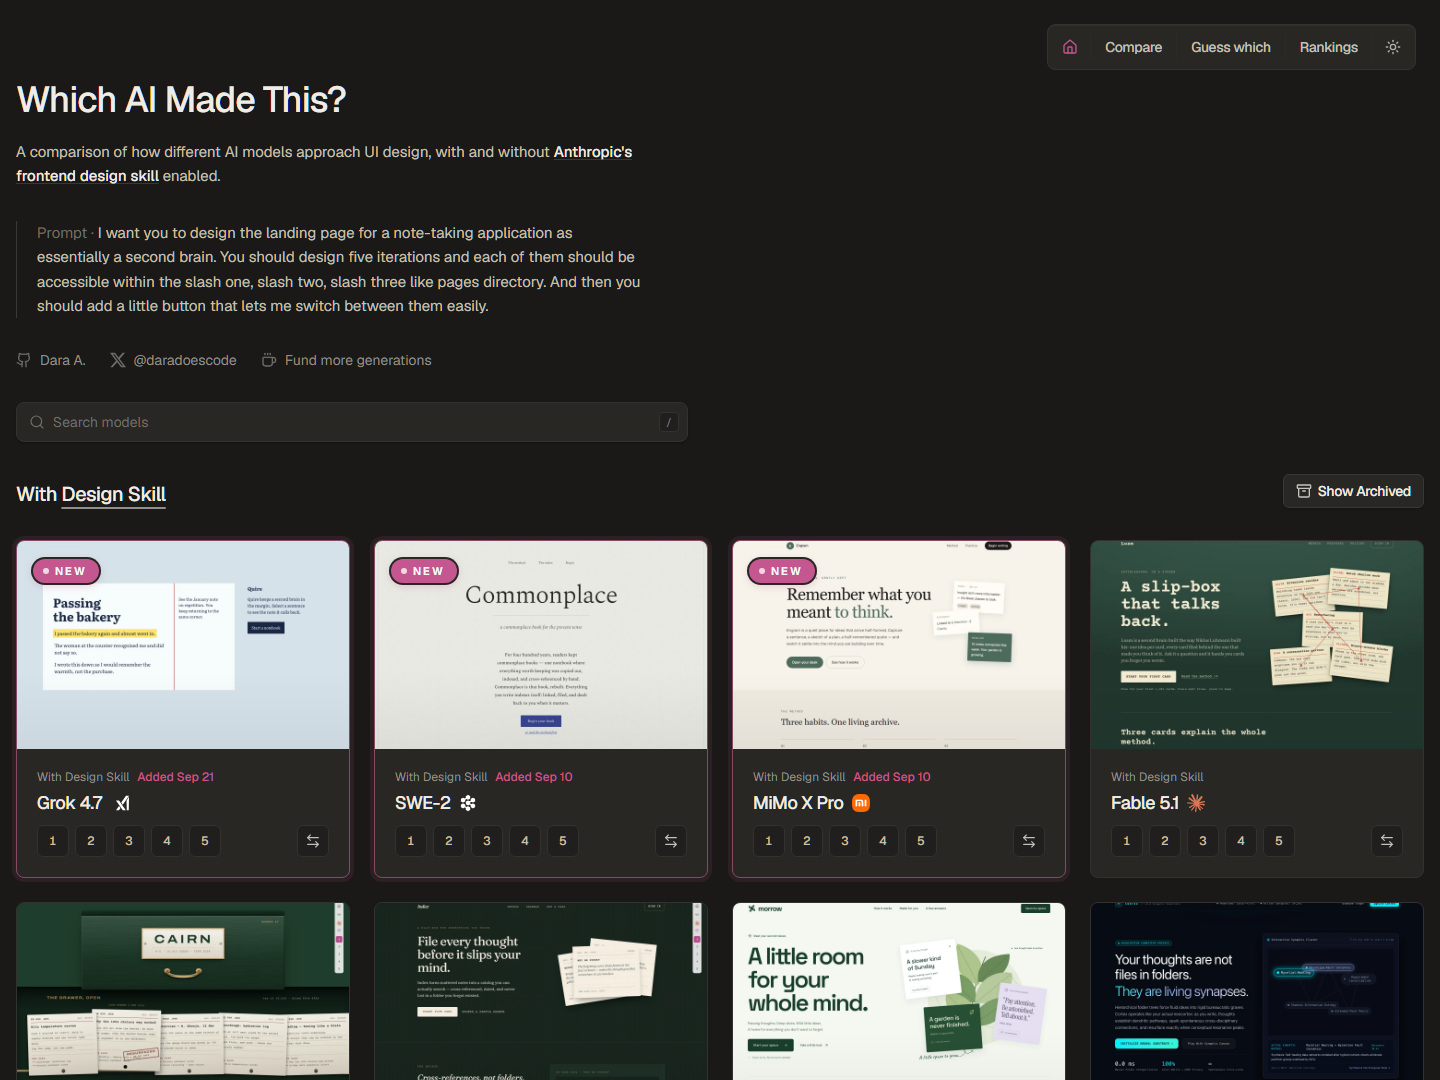
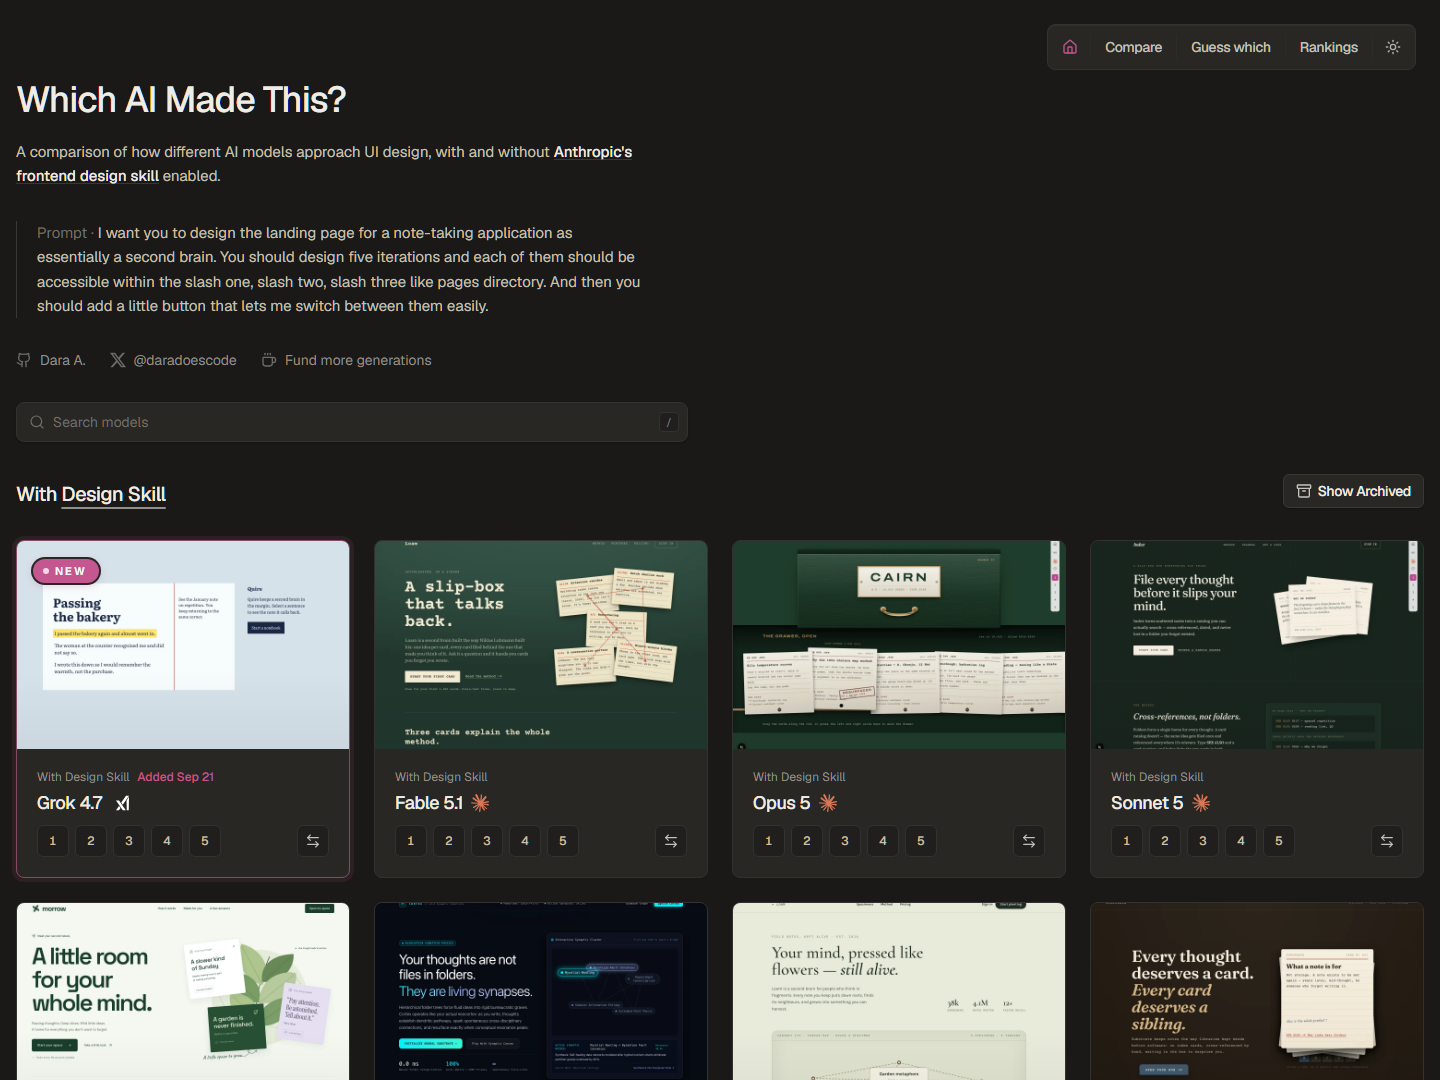
Mark only Grok 4.7 as a new arrival

diff --git a/tests/gallery-recency.spec.ts b/tests/gallery-recency.spec.ts
@@ -59,7 +59,7 @@ test.describe("new-arrival policy", () => {
         if (!isGalleryModelArchivedWithinGroup(entries, entry)) continue;
         const addedAt = getGalleryEntryAddedAt(entry);
         if (!addedAt) continue;
-        // Evaluate on the entry's own added day so only the archive rule can suppress it.
+        // An archived entry must stay unbadged even on its own added day.
         expect(
           getGalleryEntryNewArrival(entries, entry, isoDateToUtcMs(addedAt)),
           `${group}/${entry.model}`,
@@ -68,13 +68,15 @@ test.describe("new-arrival policy", () => {
     }
   });
 
-  test("older models are not new on the day Grok 4.7 landed", () => {
-    const entries = groupEntries("with-design-skill");
-    const fresh = entries
-      .filter((entry) => getGalleryEntryNewArrival(entries, entry, GROK_47_ADDED))
-      .map((entry) => entry.model)
-      .toSorted();
-    expect(fresh).toEqual(["grok-4.7", "mimo-x-pro-preview", "swe-2"]);
+  test("only Grok 4.7 is new in every group, including other recent additions", () => {
+    for (const group of ["with-design-skill", "with-taste-skill", "without-design-skill"] as const) {
+      const entries = groupEntries(group);
+      const fresh = entries
+        .filter((entry) => getGalleryEntryNewArrival(entries, entry, GROK_47_ADDED))
+        .map((entry) => entry.model)
+        .toSorted();
+      expect(fresh).toEqual(["grok-4.7"]);
+    }
   });
 });
 
@@ -85,9 +87,7 @@ test.describe("home sort", () => {
     const models = sorted.map((entry) => entry.model);
 
     expect(models[0]).toBe("grok-4.7");
-    expect(models.slice(1, 3).toSorted()).toEqual(["mimo-x-pro-preview", "swe-2"]);
-
-    const rest = sorted.slice(3);
+    const rest = sorted.slice(1);
     expect(rest.map((entry) => entry.model)).toEqual(
       sortGalleryEntriesByFamily(rest).map((entry) => entry.model),
     );

diff --git a/src/lib/gallery-recency.ts b/src/lib/gallery-recency.ts
@@ -8,12 +8,13 @@ export type GalleryIsoDate = `${number}-${number}-${number}`;
  * New-arrival policy
  * ------------------
  * An entry is a "new arrival" when all of the following hold:
- *   1. it has an added-at date (model default, or a per-entry override below),
+ *   1. its model is selected in `NEW_ARRIVAL_MODELS` and it has an added-at date,
  *   2. the date is not in the future and fewer than `NEW_ARRIVAL_WINDOW_DAYS` have elapsed
  *      since it, measured against the reference time the home page was rendered with, and
  *   3. it is not archived within its group (archived rows are never badged).
  *
- * Maintenance: when a new model lands, add it to `MODEL_ADDED_AT` with the merge date.
+ * Maintenance: when a new model lands, add it to `MODEL_ADDED_AT` with the merge date
+ * and select it in `NEW_ARRIVAL_MODELS` if it should receive the new-arrival treatment.
  * When an existing model gains a new group later, add a `"{group}/{model}"` key to
  * `ENTRY_ADDED_AT` instead of bumping the model date, so only the new condition is badged.
  * Archived rows need no date. Dates are never removed; the window handles expiry.
@@ -24,6 +25,9 @@ export type GalleryIsoDate = `${number}-${number}-${number}`;
  * Dates are the git addition dates of `src/variants/{group}/{model}/index.tsx`.
  */
 export const NEW_ARRIVAL_WINDOW_DAYS = 14;
+
+/** Explicitly selected arrivals; a recent date alone does not earn a New badge. */
+const NEW_ARRIVAL_MODELS = new Set<ModelSlug>(["grok-4.7"]);
 
 const DAY_MS = 24 * 60 * 60 * 1000;
 
@@ -107,6 +111,7 @@ export function getGalleryEntryNewArrival(
   entry: GalleryEntry,
   now: number,
 ): GalleryIsoDate | null {
+  if (!NEW_ARRIVAL_MODELS.has(entry.model)) return null;
   const addedAt = getGalleryEntryAddedAt(entry);
   if (!addedAt) return null;
   const elapsed = now - isoDateToUtcMs(addedAt);
